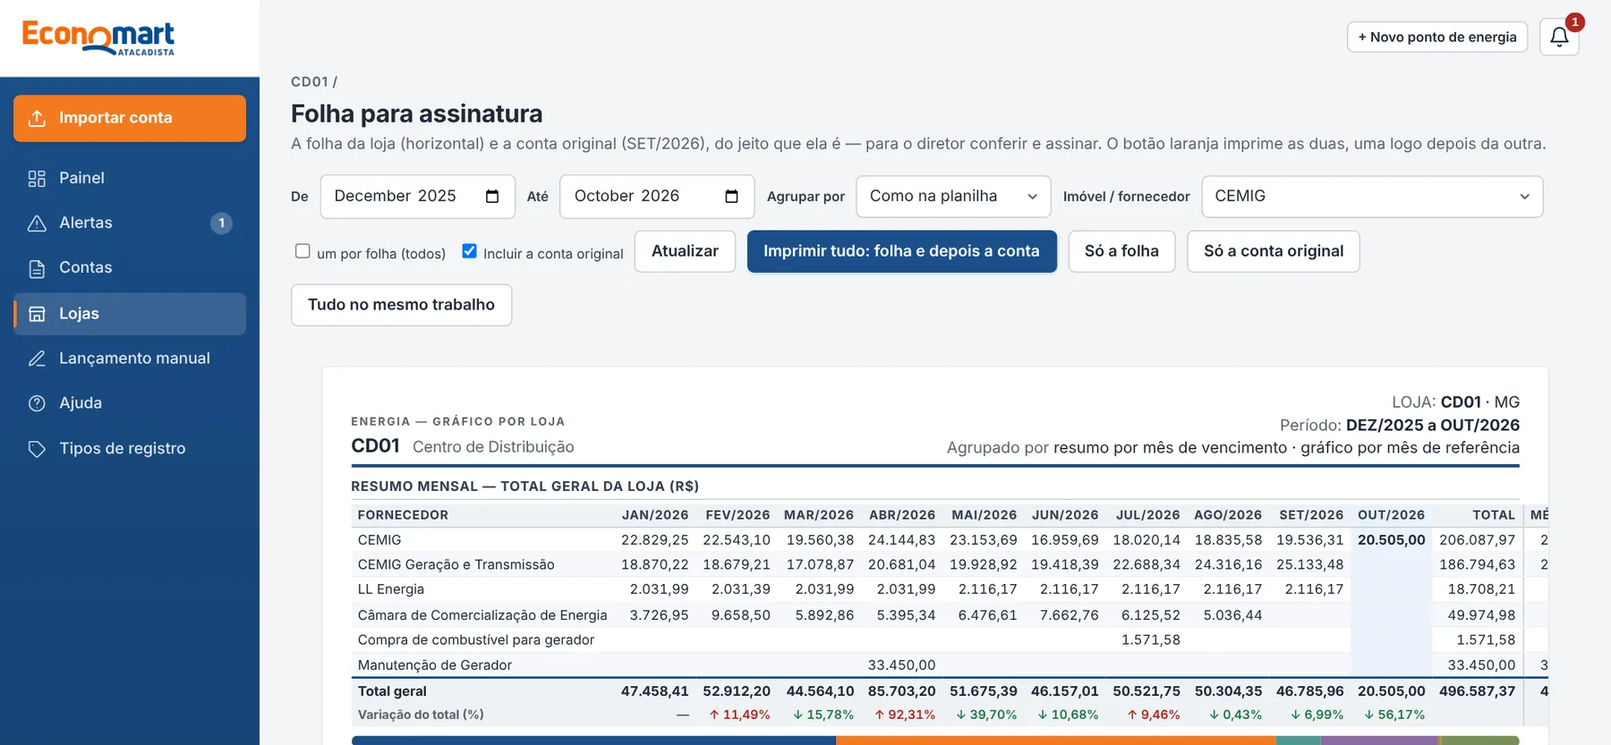
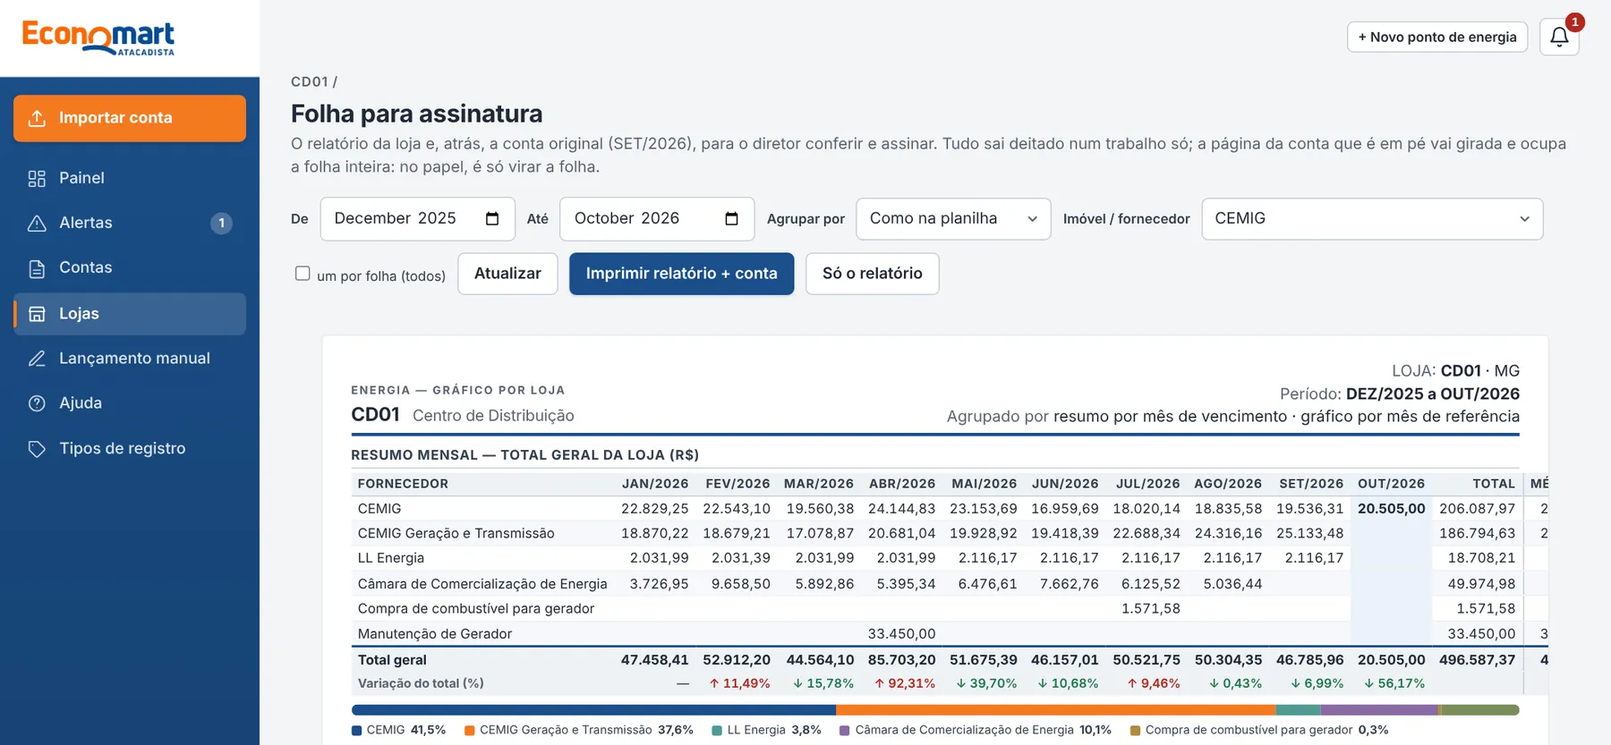
Imprimir para assinatura: dois botões e um trabalho só, sem esticar
O trabalho inteiro sai em A4 deitado; página da conta em pé vai girada 90° pelo servidor
(rot=1, foto ou PDF) e ocupa a folha na proporção original. Remove o encadeamento em dois
trabalhos e os botões redundantes.

Claude-Session: https://claude.ai/code/session_01SRoDpaq7ygoXKN5TQqH2rN

Changed region(s): [[0.2178, 0.4682, 0.9644, 1.0], [0.1867, 0.1873, 0.9644, 0.437]]

diff --git a/app/templates/stores/report.html b/app/templates/stores/report.html
@@ -4,7 +4,7 @@
 {% block content %}
 <div class="page-head no-print">
   <div><div class="crumbs"><a href="/stores/{{ store.id }}">{{ store.code }}</a> /</div><h1>{{ 'Folha para assinatura' if sign_bill else 'Folha de impressão' }}</h1>
-    <div class="muted">{% if sign_bill %}A folha da loja (horizontal) e a conta original ({{ sign_bill.reference|month_label }}), do jeito que ela é — para o diretor conferir e assinar. O botão laranja imprime as duas, uma logo depois da outra.{% else %}Uma folha A4 com resumo, gráfico, informações e dados — pronta para imprimir.{% endif %}</div></div>
+    <div class="muted">{% if sign_bill %}O relatório da loja e, atrás, a conta original ({{ sign_bill.reference|month_label }}), para o diretor conferir e assinar. Tudo sai deitado num trabalho só; a página da conta que é em pé vai girada e ocupa a folha inteira: no papel, é só virar a folha.{% else %}Uma folha A4 com resumo, gráfico, informações e dados — pronta para imprimir.{% endif %}</div></div>
   <form method="get" class="actions">
     <label for="s" style="margin:0">De</label><input id="s" type="month" name="start" value="{{ start.strftime('%Y-%m') }}" style="width:auto">
     <label for="e" style="margin:0">Até</label><input id="e" type="month" name="end" value="{{ end.strftime('%Y-%m') }}" style="width:auto">
@@ -13,12 +13,12 @@
     <label for="t" style="margin:0">Imóvel / fornecedor</label>
     <select id="t" name="type_id" style="width:auto">{% for t in available %}<option value="{{ t.id }}" {{ 'selected' if type_id == t.id }}>{{ t.name }}</option>{% endfor %}</select>
     <label style="margin:0;font-weight:400"><input type="checkbox" name="all" value="1" {{ 'checked' if all_types }}> um por folha (todos)</label>
-    {% if sign_bill %}<input type="hidden" name="bill" value="{{ sign_bill.id }}">
-    <label style="margin:0;font-weight:400"><input type="checkbox" name="doc" value="1" {{ 'checked' if include_doc }} {{ 'disabled' if not (sign_bill.document and sign_bill.document.available) }}> Incluir a conta original</label>{% endif %}
-    <button class="btn">Atualizar</button>{% if sign_bill %}{% if orig_href %}<button class="btn primary" type="button" data-print-chain data-next="{{ orig_href }}" title="Imprime a folha da loja (horizontal) e, logo depois, abre a conta original (do jeito que ela é) já pronta para imprimir">Imprimir tudo: folha e depois a conta</button>
-    <button class="btn" type="button" data-print-sheet>Só a folha</button><a class="btn" href="{{ orig_href }}" target="_blank" rel="noopener">Só a conta original</a>
-    <button class="btn" type="button" data-print title="Folha e conta no MESMO trabalho de impressão (só funciona se a impressora aceitar páginas em pé e deitadas juntas)">Tudo no mesmo trabalho</button>
-    {% else %}<button class="btn primary" type="button" data-print-sheet>Imprimir a folha da loja</button>{% endif %}{% else %}<button class="btn primary" type="button" data-print>Imprimir</button>{% endif %}
+    {% if sign_bill %}<input type="hidden" name="bill" value="{{ sign_bill.id }}"><input type="hidden" name="doc" value="1">{% endif %}
+    <button class="btn">Atualizar</button>
+    {% if sign_bill %}{% if orig_pages %}<button class="btn primary" type="button" data-print title="Relatório da loja e, atrás, a conta original: tudo num trabalho só">Imprimir relatório + conta</button>
+    <button class="btn" type="button" data-print-sheet>Só o relatório</button>
+    {% else %}<button class="btn primary" type="button" data-print-sheet>Imprimir o relatório</button>{% endif %}
+    {% else %}<button class="btn primary" type="button" data-print>Imprimir</button>{% endif %}
   </form>
 </div>
 
@@ -78,8 +78,8 @@
     <span>Variação = mês em relação ao mês anterior (↑ gastou mais, ↓ gastou menos) · barra escura = último mês</span></footer>
 </div>
 {% if sign_bill and include_doc %}
-  {# a conta original sai DEPOIS da folha, cada página na proporção e na orientação originais (retrato ou paisagem) #}
-  {% for pg in orig_pages %}<section class="orig-page {{ 'l' if pg.land else 'p' }}" aria-label="Conta original, página {{ pg.n }}"><img class="orig" src="{{ pg.src }}" alt="Página {{ pg.n }} da conta original"></section>{% endfor %}
+  {# a conta original sai DEPOIS da folha, no mesmo trabalho e na mesma orientação (deitada); página em pé vai girada, sem esticar #}
+  {% for pg in orig_pages %}<section class="orig-page {{ 'l' if pg.land else 'p' }}" aria-label="Conta original, página {{ pg.n }}"><img class="orig orig-screen" src="{{ pg.screen }}" alt="Página {{ pg.n }} da conta original"><img class="orig orig-print" src="{{ pg.src }}" alt=""></section>{% endfor %}
   {% if not orig_pages %}<p class="muted no-print">Não foi possível preparar o arquivo original para a impressão. <a href="/documents/{{ sign_bill.document_id }}" target="_blank" rel="noopener">Abra-o</a> e imprima separado.</p>{% endif %}
 {% endif %}
 {% endblock %}

diff --git a/app/static/css/app.css b/app/static/css/app.css
@@ -322,7 +322,6 @@ body.drawer-open { overflow: hidden; }
 .rchart.sm { height: 190px; } .kpis { margin-bottom: 14px; } .bill-print .kpi .value { font-size: 18px; }
 .rtable.kv th { background: #fff; color: var(--muted); font-weight: 600; width: 13%; } .rtable.kv td { width: 20%; }
 .orig { max-width: 100%; max-height: 240mm; display: block; margin: 0 auto; } .pagebreak { break-before: page; }
-@page orig-p { size: A4 portrait; margin: 8mm; }
 @page orig-l { size: A4 landscape; margin: 8mm; }
 .orig-page { margin-top: 18px; } .orig-page .orig { max-width: 100%; height: auto; }
 /* colunas de ações: os botões quebram em duas linhas em vez de alargar a tabela (rolagem lateral) */
@@ -333,10 +332,13 @@ table.dense th { letter-spacing: 0; font-size: 10.5px; } table.dense td.num { fo
 .stack { display: grid; gap: 16px; align-content: start; min-width: 0; }
 @media screen { .report { overflow-x: auto; } }   /* a folha tem largura de papel: na tela rola dentro do cartão, não a página toda */
 @media print { html.sheet-only .orig-page { display: none !important; } }
-/* cada página da conta original sai na própria orientação, SEM esticar: largura e altura "auto" + limites em mm (a proporção da imagem é preservada) */
-@media print { .orig-page { break-before: page; margin: 0; } .orig-page.p { page: orig-p; } .orig-page.l { page: orig-l; }
-  .orig-page .orig { display: block; margin: 0 auto; width: auto; height: auto; object-fit: contain; }
-  .orig-page.p .orig { max-width: 192mm; max-height: 278mm; } .orig-page.l .orig { max-width: 279mm; max-height: 190mm; } }
+/* conta original na impressão para assinatura: TODAS as páginas em A4 deitado, como a folha (uma orientação só no trabalho,
+   que toda impressora respeita). A página em pé chega girada do servidor (rot=1); largura e altura "auto" + limites em mm
+   preservam a proporção. Na tela aparece a versão sem girar. */
+.orig-page .orig-print { display: none; }
+@media print { .orig-page { break-before: page; margin: 0; page: orig-l; }
+  .orig-page .orig-screen { display: none; }
+  .orig-page .orig-print { display: block; margin: 0 auto; width: auto; height: auto; max-width: 279mm; max-height: 192mm; object-fit: contain; } }
 @media print { .bill-print .kpi { border-color: var(--line-strong); } .bill-print .cols-2 { grid-template-columns: 1fr 1fr; } .bill-print .cols-4 { grid-template-columns: repeat(4, 1fr); } }
 
 /* A folha tem, na tela, a largura útil do papel: o gráfico é desenhado já no tamanho final (sem depender de resize ao imprimir). */

diff --git a/app/templates/help.html b/app/templates/help.html
@@ -130,9 +130,9 @@
   <section class="card" id="assinar"><h2>Imprimir para o diretor assinar</h2>
     <p>É a impressão de sempre: <strong>a folha da loja</strong> (resumo, gráfico e tabela do mês) e, logo atrás, <strong>a conta original</strong>. O sistema monta as duas juntas.</p>
     <ol class="steps-help">
-      <li>Logo depois de salvar uma conta, na tela da loja, clique no botão laranja <strong>Imprimir para assinatura</strong>. Abre a tela com dois botões numerados.</li>
+      <li>Logo depois de salvar uma conta, na tela da loja, clique no botão laranja <strong>Imprimir para assinatura</strong>. Abre a tela com o relatório da loja e a conta original logo abaixo.</li>
       <li>Outro dia? No <strong>Painel</strong>, em <strong>Últimas contas lançadas</strong>, ou em <strong>Contas</strong>, na linha da conta, clique em <strong>Imprimir para assinatura</strong>.</li>
-      <li>Clique no botão laranja <strong>Imprimir tudo: folha e depois a conta</strong>. Abre a impressão da folha da loja (horizontal); ao concluir, abre sozinha a impressão da conta original, do jeito que ela é (em pé ou deitada). São dois trabalhos seguidos para a impressora nunca esticar a conta. Existem também <strong>Só a folha</strong> e <strong>Só a conta original</strong>.</li>
+      <li>Clique em <strong>Imprimir relatório + conta</strong>. Sai tudo num trabalho só: o relatório da loja (deitado) e, atrás, cada página da conta original no tamanho da folha, sem esticar. A página da conta que é em pé aparece <strong>de lado na prévia</strong>; no papel é só virar a folha que ela fica em pé, inteira. Quer só o relatório? <strong>Só o relatório</strong>.</li>
     </ol>
     <p class="hint">O botão <strong>Relatório da conta</strong> é outra coisa: dados e gráficos só daquela conta, sem a folha da loja. A conta original só sai se o arquivo ainda existir (ele é apagado após 6 meses); conta lançada à mão não tem arquivo, então sai só a folha.</p></section>
 

diff --git a/app/templates/presentation.html b/app/templates/presentation.html
@@ -178,8 +178,8 @@
 
     <section class="slide s-split" data-chapter="func" aria-label="Imprimir para assinatura">
       <div class="copy"><p class="eyebrow rv" style="--i:0">Funcionário · assinatura</p>{{ lines(['Folha e conta', 'num só <em>clique</em>']) }}
-        <ul class="rv" style="--i:2"><li>Na lista de contas ou no painel: <b>Imprimir p/ assinatura</b>.</li><li><b>Imprimir tudo</b> imprime a folha da loja e, em seguida, a conta original, sem esticar.</li><li>Pronto para o diretor conferir e assinar.</li></ul></div>
-      {{ dev('func-assinar', 'Tela Folha para assinatura com o botão Imprimir tudo', 'Folha para assinatura', [{'x':56,'y':33,'t':'Folha + conta original','side':'l'}]) }}
+        <ul class="rv" style="--i:2"><li>Na lista de contas ou no painel: <b>Imprimir p/ assinatura</b>.</li><li><b>Imprimir relatório + conta</b>: o relatório da loja e a conta original num trabalho só, sem esticar.</li><li>Pronto para o diretor conferir e assinar.</li></ul></div>
+      {{ dev('func-assinar', 'Tela Folha para assinatura com o botão Imprimir relatório + conta', 'Folha para assinatura', [{'x':42,'y':37,'t':'Relatório + conta original','side':'r'}]) }}
     </section>
 
     <section class="slide s-split rev" data-chapter="func" aria-label="Lançamento manual">

diff --git a/tests/test_sign_print.py b/tests/test_sign_print.py
@@ -28,9 +28,11 @@ def test_report_with_bill_prints_the_original_after_the_sheet(client, db, png):
     assert r.status_code == 200
     html = r.text
     assert "Folha para assinatura" in html and 'class="orig-page ' in html
-    assert f'src="/documents/{bill.document_id}"' in html                                   # foto original (não PDF)
+    assert f'src="/documents/{bill.document_id}"' in html                                   # foto original (não PDF), na tela
+    assert f'src="/documents/{bill.document_id}/pages/1.png?rot=' in html                   # e a versão para o papel
     assert html.index('class="sheet') < html.index('class="orig-page ')                      # a conta vem DEPOIS da folha
-    assert "@page orig-p" in client.get("/static/css/app.css").text and "@page orig-l" in client.get("/static/css/app.css").text
+    css = client.get("/static/css/app.css").text
+    assert "@page orig-l { size: A4 landscape" in css and "@page orig-p" not in css             # uma orientação só no trabalho
 
 
 def test_report_without_the_original_when_unchecked_or_no_bill(client, db, png):
@@ -89,12 +91,12 @@ def _png(w, h):
     return buf.getvalue()
 
 
-@pytest.mark.parametrize("w,h,cls", [(600, 900, "orig-page p"), (900, 600, "orig-page l")])
-def test_each_original_page_keeps_its_own_orientation(client, db, w, h, cls):
-    """A conta original sai na proporção e na orientação dela: foto em pé = página em pé, foto deitada = página deitada."""
+@pytest.mark.parametrize("w,h,cls,rot", [(600, 900, "orig-page p", 1), (900, 600, "orig-page l", 0)])
+def test_portrait_pages_are_turned_to_fill_the_landscape_sheet(client, db, w, h, cls, rot):
+    """Tudo sai deitado (um trabalho, uma orientação); a conta em pé vai girada 90° e, virando a folha, fica em pé."""
     _, bill = _saved_bill(client, db, _png(w, h))
     html = client.get(f"/stores/{bill.unit.store_id}/report?bill={bill.id}&doc=1").text
-    assert f'class="{cls}"' in html
+    assert f'class="{cls}"' in html and f'/documents/{bill.document_id}/pages/1.png?rot={rot}"' in html
 
 
 def test_pdf_pages_report_their_real_orientation():
@@ -129,7 +131,7 @@ def test_image_orientation_follows_exif_like_the_browser():
 
 def test_original_images_are_never_stretched_in_print_css():
     css = open("app/static/css/app.css", encoding="utf-8").read()
-    assert "width: auto; height: auto; object-fit: contain" in css and "max-height: 278mm" in css and "max-height: 190mm" in css
+    assert "width: auto; height: auto; max-width: 279mm; max-height: 192mm; object-fit: contain" in css
 
 
 def test_print_pages_of_a_pdf_use_the_sharper_render():
@@ -153,16 +155,41 @@ def test_print_pages_of_a_pdf_use_the_sharper_render():
     assert "hq=1" in open("app/routes/stores.py", encoding="utf-8").read()
 
 
-def test_sign_page_has_two_separate_print_jobs(client, db, png):
-    """Cada impressão com uma orientação só: 1) a folha da loja; 2) a conta original sozinha (foto ou PDF do jeito que é)."""
+def test_sign_page_has_just_two_buttons(client, db, png):
+    """Antes eram cinco botões para a mesma coisa. Agora: relatório + conta (um trabalho) ou só o relatório."""
     _, bill = _saved_bill(client, db, _png(600, 900))
     html = client.get(f"/stores/{bill.unit.store_id}/report?bill={bill.id}&doc=1").text
-    assert "data-print-chain" in html and "Imprimir tudo: folha e depois a conta" in html and "data-print-sheet" in html
-    assert f'data-next="/impressao/original/{bill.document_id}"' in html and f'href="/impressao/original/{bill.document_id}"' in html
-    assert "Tudo no mesmo trabalho" in html
+    assert "Imprimir relatório + conta" in html and "Só o relatório" in html
+    for gone in ("data-print-chain", "Imprimir tudo: folha e depois a conta", "Tudo no mesmo trabalho", "Só a conta original"):
+        assert gone not in html
     assert "html.sheet-only .orig-page { display: none" in open("app/static/css/app.css", encoding="utf-8").read()
-    js = open("app/static/js/app.js", encoding="utf-8").read()
-    assert "data-print-sheet" in js and "data-print-chain" in js and "afterprint" in js and "window.location.href = next" in js
+
+
+def test_page_image_is_turned_on_request_and_keeps_its_proportion(client, db):
+    import io
+
+    from PIL import Image
+
+    _, bill = _saved_bill(client, db, _png(600, 900))
+    upright = Image.open(io.BytesIO(client.get(f"/documents/{bill.document_id}/pages/1.png?rot=0").content))
+    turned = Image.open(io.BytesIO(client.get(f"/documents/{bill.document_id}/pages/1.png?rot=1").content))
+    assert upright.size == (600, 900) and turned.size == (900, 600)                          # só gira, não estica
+    assert client.get(f"/documents/{bill.document_id}/pages/2.png").status_code == 404        # foto tem uma página só
+
+
+def test_pdf_page_render_can_be_turned():
+    import io
+    import struct
+
+    from PIL import Image
+
+    from app.services import pdf_pages
+
+    buf = io.BytesIO()
+    Image.new("RGB", (600, 900), "white").save(buf, "PDF", resolution=72)
+    png = pdf_pages.render_page(buf.getvalue(), 1, rotate=True)
+    w, h = struct.unpack(">II", png[16:24])
+    assert w > h
 
 
 def test_original_photo_print_page_matches_the_photo_orientation(client, db):

diff --git a/app/services/pdf_pages.py b/app/services/pdf_pages.py
@@ -3,6 +3,7 @@ import io
 import threading
 
 import pypdfium2 as pdfium
+from PIL import Image
 
 MAX_PAGES = 6          # uma conta tem 1–2 páginas; mais que isso é arquivo errado, não vale imprimir
 SCALE = 1.6            # ~115 dpi: legível na tela (conferência) sem gerar imagens pesadas
@@ -59,8 +60,14 @@ def image_display_size(data: bytes) -> tuple[int, int] | None:
         return None
 
 
-def render_page(data: bytes, number: int, scale: float = SCALE) -> bytes | None:
-    """PNG da página `number` (1-based), ou None se não existir/ilegível."""
+def _rotated(image, rotate: bool):
+    # Impressão para assinatura: o trabalho inteiro é A4 deitado (uma orientação só, que toda impressora aceita).
+    # A página em pé é girada 90° para ocupar a folha deitada: no papel, virando a folha, ela fica em pé, inteira.
+    return image.transpose(Image.Transpose.ROTATE_90) if rotate else image
+
+
+def render_page(data: bytes, number: int, scale: float = SCALE, rotate: bool = False) -> bytes | None:
+    """PNG da página `number` (1-based), ou None se não existir/ilegível. `rotate` gira 90° (ver `_rotated`)."""
     if not 1 <= number <= MAX_PAGES:
         return None
     try:
@@ -72,8 +79,25 @@ def render_page(data: bytes, number: int, scale: float = SCALE) -> bytes | None:
                 image = pdf[number - 1].render(scale=scale).to_pil().convert("RGB")
             finally:
                 pdf.close()
+        image = _rotated(image, rotate)
         out = io.BytesIO()
         image.save(out, "PNG", optimize=True)
+        return out.getvalue()
+    except Exception:
+        return None
+
+
+def render_photo(data: bytes, rotate: bool = False, max_side: int = 3000) -> bytes | None:
+    """Foto da conta pronta para o papel: aplica a rotação EXIF do celular, limita o tamanho e (opcional) gira 90°."""
+    try:
+        from PIL import ImageOps
+
+        with Image.open(io.BytesIO(data)) as im:
+            image = ImageOps.exif_transpose(im).convert("RGB")
+        image.thumbnail((max_side, max_side))
+        image = _rotated(image, rotate)
+        out = io.BytesIO()
+        image.save(out, "JPEG", quality=90)
         return out.getvalue()
     except Exception:
         return None

diff --git a/app/routes/documents.py b/app/routes/documents.py
@@ -82,10 +82,13 @@ def print_original(request: Request, doc_id: int, user: User = Depends(current_u
 
 
 @router.get("/documents/{doc_id}/pages/{number}.png")
-def document_page(doc_id: int, number: int, hq: int = 0, user: User = Depends(current_user), db: Session = Depends(get_db)):
-    """Página `number` de um PDF original como PNG (usada na impressão da conta)."""
+def document_page(doc_id: int, number: int, hq: int = 0, rot: int = 0, user: User = Depends(current_user),
+                  db: Session = Depends(get_db)):
+    """Página `number` do original como imagem (impressão da conta). PDF: a página; foto: só a página 1.
+    `rot=1` gira 90° (página em pé numa impressão toda deitada)."""
     doc = db.get(Document, doc_id)
-    if not doc or doc.content_type != "application/pdf":
+    is_pdf = bool(doc) and doc.content_type == "application/pdf"
+    if not doc or (not is_pdf and number != 1):
         raise HTTPException(404, "Página não encontrada.")
     if not _visible(doc_id, user, db):
         raise HTTPException(403, "Documento não disponível para o seu perfil.")
@@ -95,9 +98,12 @@ def document_page(doc_id: int, number: int, hq: int = 0, user: User = Depends(cu
         content = doc.plain()
     except CryptoError:
         raise HTTPException(500, "Não foi possível abrir o documento (erro de chave de criptografia).")
-    png = pdf_pages.render_page(content, number, pdf_pages.PRINT_SCALE if hq else pdf_pages.SCALE)
-    if png is None:
+    if is_pdf:
+        img, mime = pdf_pages.render_page(content, number, pdf_pages.PRINT_SCALE if hq else pdf_pages.SCALE, rotate=bool(rot)), "image/png"
+    else:
+        img, mime = pdf_pages.render_photo(content, rotate=bool(rot)), "image/jpeg"
+    if img is None:
         raise HTTPException(404, "Página não encontrada.")
-    return Response(png, media_type="image/png", headers={
+    return Response(img, media_type=mime, headers={
         "X-Content-Type-Options": "nosniff", "Cache-Control": "no-store",
         "Content-Security-Policy": "default-src 'none'; img-src 'self' data:; sandbox"})

diff --git a/app/routes/stores.py b/app/routes/stores.py
@@ -214,14 +214,20 @@ def store_report(request: Request, store_id: int, start: str | None = None, end:
         from app.services import pdf_pages
         try:
             raw = sign_bill.document.plain()
+            # Um trabalho de impressão só, todo em A4 DEITADO (a folha da loja já é deitada): impressora nenhuma aceita
+            # bem páginas em pé e deitadas no mesmo trabalho. A página da conta que é em pé vai girada 90° (`rot=1`) e
+            # ocupa a folha inteira: no papel, virando a folha, ela fica em pé, na proporção original, sem esticar.
+            # `screen` é a mesma página sem girar, para conferir na tela.
+            base = f"/documents/{sign_bill.document_id}"
             if sign_bill.document.content_type == "application/pdf":
                 sizes = pdf_pages.page_sizes(raw)
                 doc_pages = len(sizes)
-                orig_pages = [{"src": f"/documents/{sign_bill.document_id}/pages/{n}.png?hq=1", "land": w > h, "n": n}
-                              for n, (w, h) in enumerate(sizes, 1)]
-            else:                                                       # foto: a página sai na orientação da própria foto
+                orig_pages = [{"src": f"{base}/pages/{n}.png?hq=1&rot={0 if w > h else 1}", "screen": f"{base}/pages/{n}.png",
+                               "land": w > h, "n": n} for n, (w, h) in enumerate(sizes, 1)]
+            else:
                 size = pdf_pages.image_display_size(raw)
-                orig_pages = [{"src": f"/documents/{sign_bill.document_id}", "land": bool(size and size[0] > size[1]), "n": 1}]
+                land = bool(size and size[0] > size[1])
+                orig_pages = [{"src": f"{base}/pages/1.png?rot={0 if land else 1}", "screen": base, "land": land, "n": 1}]
         except Exception:                                               # arquivo ilegível: a folha imprime e o original abre por link
             doc_pages, orig_pages = 0, []
     if sign_bill is not None and sign_bill.document and sign_bill.document.available:

diff --git a/TUTORIAL.md b/TUTORIAL.md
@@ -198,7 +198,7 @@ Como ler com cuidado:
 
 ## B6. Imprimir
 
-**Imprimir para assinatura (o mais usado):** é o fluxo de sempre, a folha da loja com a conta original atrás, para o diretor conferir e assinar a nota. Três caminhos para o mesmo botão **Imprimir para assinatura**: (1) logo depois de salvar uma conta, o botão laranja na tela da loja; (2) **Painel → Últimas contas lançadas**; (3) **Contas → linha da conta**. Na tela que abre, clique no botão laranja **Imprimir tudo: folha e depois a conta**: imprime a folha da loja (A4 paisagem) e, ao concluir, abre sozinha a impressão da conta original, do jeito que ela é (em pé ou deitada). São dois trabalhos seguidos, porque a impressora aplica uma orientação por trabalho (assim ela nunca estica a conta). Há também **Só a folha**, **Só a conta original** e **Tudo no mesmo trabalho** (só use se a impressora aceitar páginas em pé e deitadas juntas). Conta lançada à mão (sem arquivo) ou com arquivo já apagado (6 meses) imprime só a folha. O botão **Relatório da conta** é outro relatório (dados e gráficos só daquela conta).
+**Imprimir para assinatura (o mais usado):** é o fluxo de sempre, a folha da loja com a conta original atrás, para o diretor conferir e assinar a nota. Três caminhos para o mesmo botão **Imprimir para assinatura**: (1) logo depois de salvar uma conta, o botão laranja na tela da loja; (2) **Painel → Últimas contas lançadas**; (3) **Contas → linha da conta**. Na tela que abre há dois botões: **Imprimir relatório + conta** e **Só o relatório**. O primeiro imprime tudo num trabalho só, todo em A4 deitado (a impressora aplica uma orientação por trabalho): primeiro o relatório da loja e, atrás, cada página da conta original no tamanho da folha, na proporção dela, sem esticar. A página em pé vai girada: aparece de lado na prévia e, no papel, é só virar a folha. Conta lançada à mão (sem arquivo) ou com arquivo já apagado (6 meses) imprime só a folha. O botão **Relatório da conta** é outro relatório (dados e gráficos só daquela conta).
 
 **Folha da loja (1 página A4 paisagem):** **Lojas → (loja) → Imprimir relatório**. Escolha o período, se agrupa por referência ou vencimento e o **imóvel/fornecedor**. A folha traz o resumo mensal de todos os fornecedores com Total Geral, indicadores, gráfico com variação e a tabela de Valor, Consumo, Demanda, Dias e Variação. Marque **"um por folha (todos)"** para imprimir uma folha de cada fornecedor.
 

diff --git a/CHANGELOG.md b/CHANGELOG.md
@@ -3,6 +3,10 @@
 Histórico do sistema, do mais novo para o mais antigo, agrupado por dia. Cada item corresponde a commits em
 `ccr-9b4b2f9b-4bk1nd`. O motivo das decisões maiores está em [`DECISIONS.md`](DECISIONS.md).
 
+## 2026-10-12
+
+- **Imprimir para assinatura: dois botões e um trabalho só, sem esticar.** A tela tinha cinco botões para a mesma coisa (*Imprimir tudo*, *Só a folha*, *Só a conta original*, *Tudo no mesmo trabalho*, a caixa *Incluir a conta original*), tudo por causa do problema da conta esticada. Agora são dois: **Imprimir relatório + conta** e **Só o relatório**. A causa: a impressora aplica UMA orientação a todo o trabalho, então uma conta em pé num trabalho com a folha deitada saía deitada e espremida. A solução: o trabalho inteiro sai em **A4 deitado** (a orientação do relatório) e cada página da conta que é em pé vai **girada 90°** pelo servidor (`/documents/{id}/pages/{n}.png?rot=1`, foto ou PDF), ocupando a folha inteira na proporção original. No papel, é só virar a folha: a conta fica em pé, do jeito que ela é; conta deitada sai deitada. É o mesmo que um leitor de PDF faz com páginas mistas. Na tela, a conta continua aparecendo em pé. Verificado no navegador gerando o PDF da impressão: foto em pé, foto deitada, PDF misto e o PDF real da CEMIG GT; todas as páginas A4 deitadas, nenhuma esticada.
+
 ## 2026-10-11
 
 - **"Painel da diretoria" agora se chama "Painel executivo".** O nome antigo soava estranho e se repetia demais. Trocado no menu, nas telas, na Ajuda, no TUTORIAL, nos documentos, na planilha, na apresentação do sistema e no PowerPoint (capa "Visão executiva"; o nome não se repete nos slides). A rota continua `/diretoria` e o perfil continua "Diretoria". Entradas antigas deste histórico mantêm o nome da época.

diff --git a/docs/testing.md b/docs/testing.md
@@ -5,7 +5,7 @@ testes e o que **não** é coberto.
 
 ## Estado atual
 
-- **367 testes** passando na última execução completa (2026-10-12). Dos 367, 61 estão em
+- **369 testes** passando na última execução completa (2026-10-12). Dos 369, 61 estão em
   `test_security.py`. O número cresce a cada mudança; confira com
   `python -m pytest --collect-only -q | tail -1`.
 - Tempo: cerca de 2 minutos numa execução local com SQLite (a maior

diff --git a/AGENTS.md b/AGENTS.md
@@ -54,7 +54,7 @@ O índice completo está em [`docs/README.md`](docs/README.md).
 
 ```bash
 ruff check --select F,E9 .        # é o que o CI roda; imports não usados quebram o CI
-python -m pytest -q               # 367 testes
+python -m pytest -q               # 369 testes
 ```
 
 O CI (`.github/workflows/ci.yml`) roda ruff, pytest e pip-audit.
